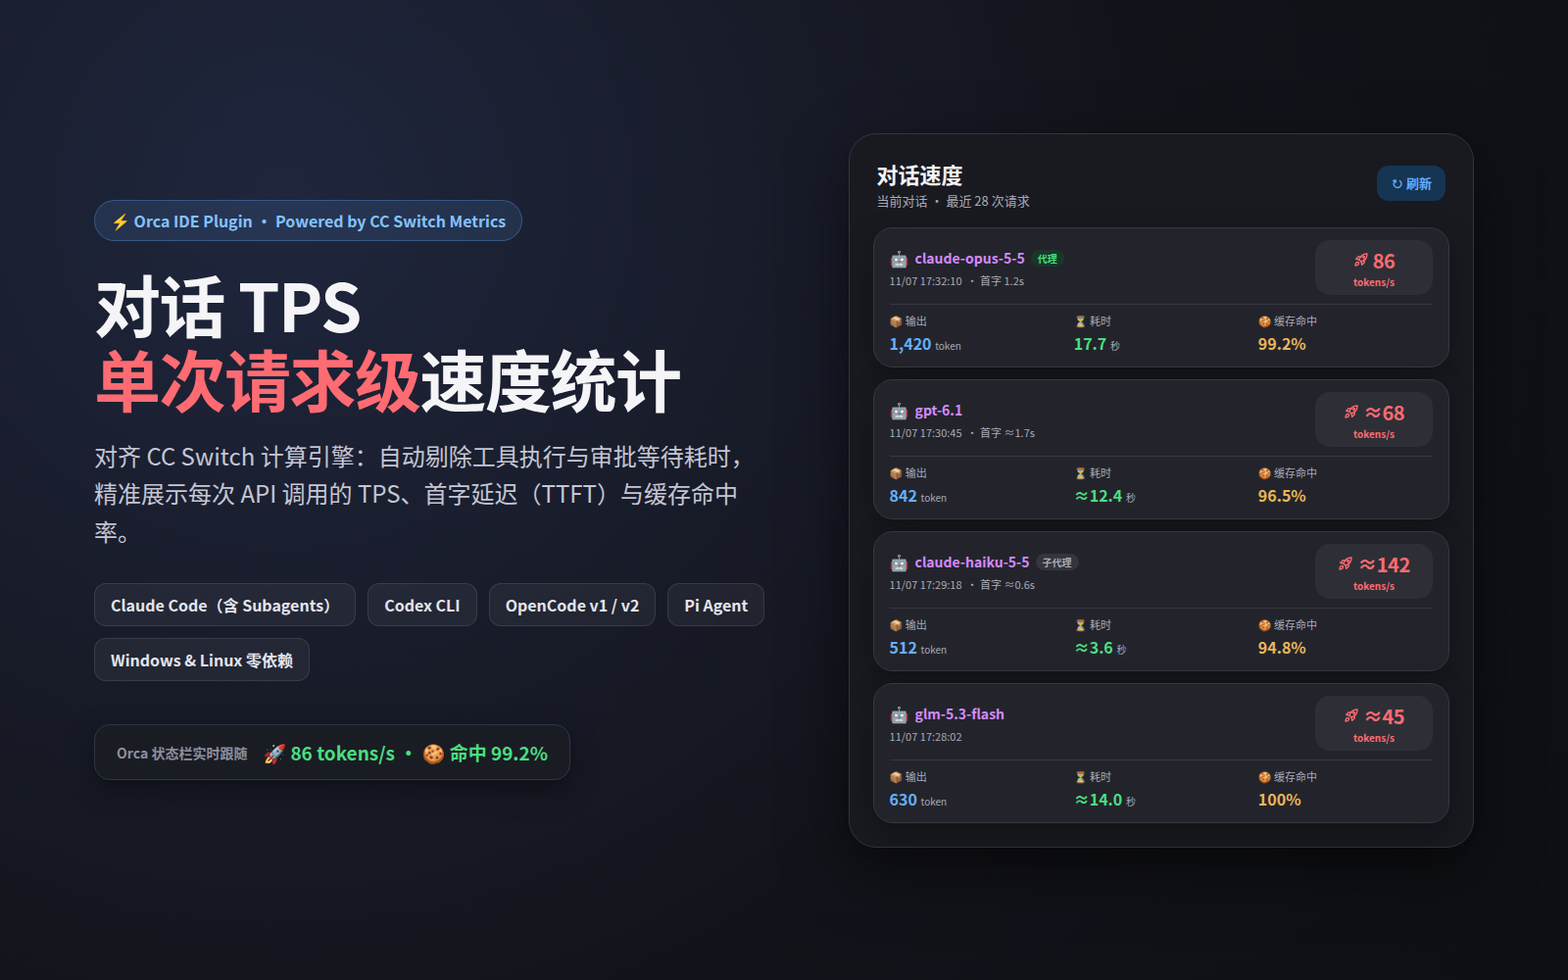
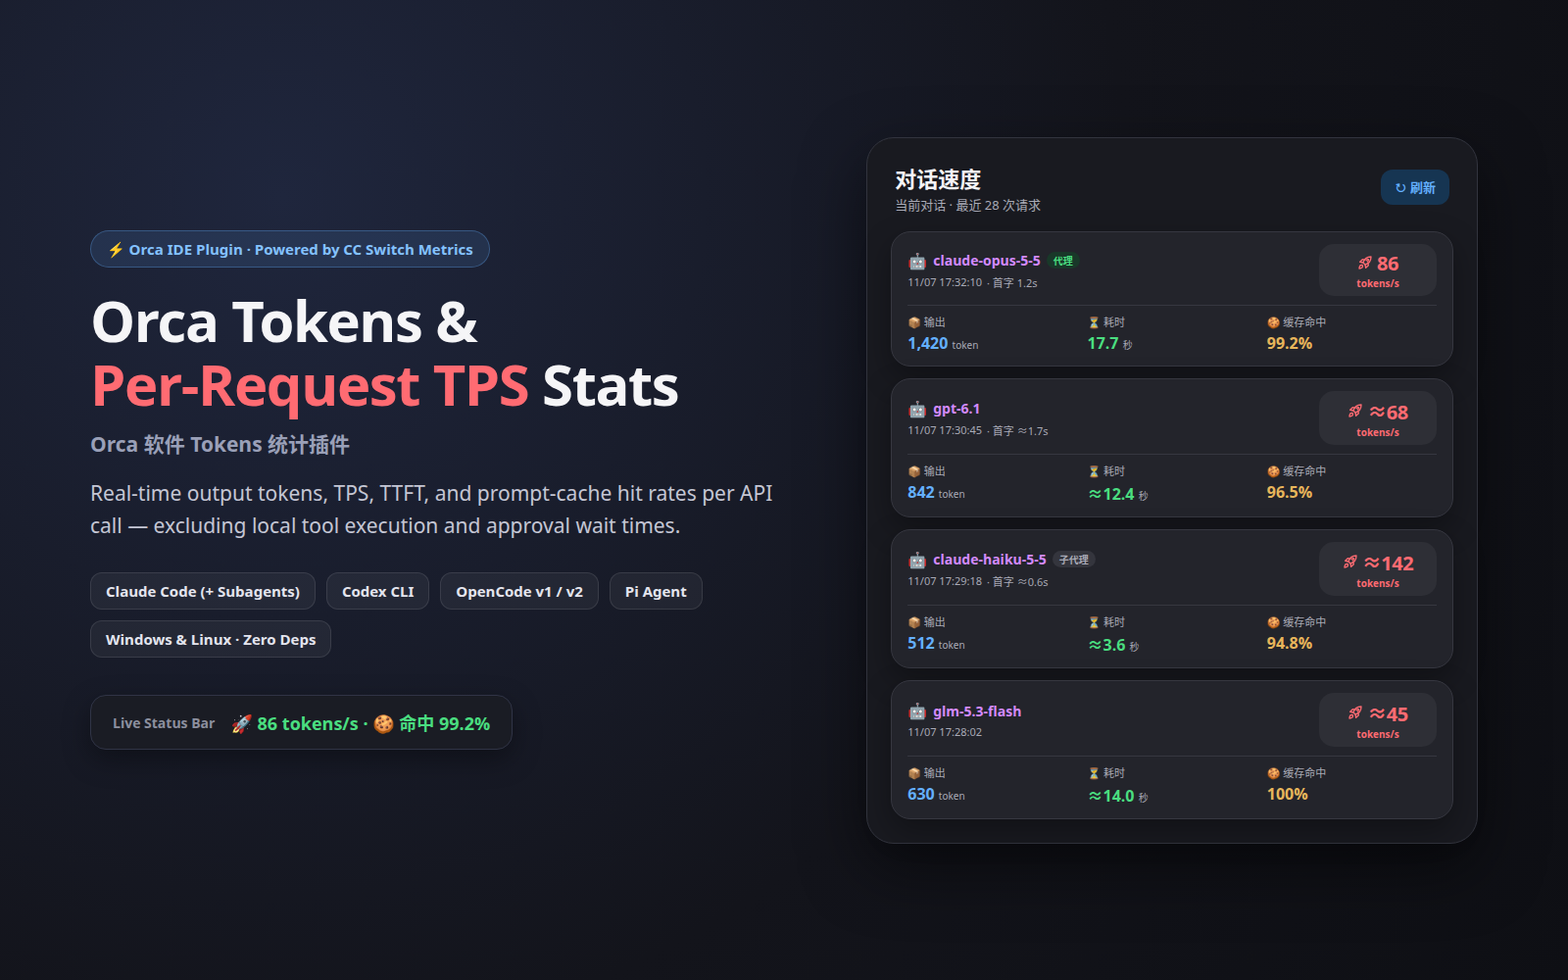
docs: switch primary docs & metadata to English with Chinese link

diff --git a/README.md b/README.md
@@ -1,70 +1,72 @@
-# 对话 TPS（Orca TPS Stats Plugin）
+# Orca Tokens & TPS Statistics Plugin
 
-[简体中文](./README.md) | [English](./README.en.md)
+**Orca 软件 Tokens 统计插件** · **English** | **[简体中文文档 (Chinese Documentation)](./README.zh-CN.md)**
 
 [![License: MIT](https://img.shields.io/badge/License-MIT-green.svg)](./LICENSE)
 [![Orca Engine](https://img.shields.io/badge/Orca-%3E%3D1.4.251-blue.svg)](https://github.com/stablyai/orca)
 [![Node.js](https://img.shields.io/badge/Node.js-%3E%3D22.13-339933.svg)](https://nodejs.org/)
 [![CI](https://github.com/jecyxyf/Orca-TPS-Plugin/actions/workflows/ci.yml/badge.svg)](https://github.com/jecyxyf/Orca-TPS-Plugin/actions/workflows/ci.yml)
 
-![对话 TPS 插件封面](./assets/cover.png)
+![Orca Tokens & Per-Request TPS Stats Cover](./assets/cover.png)
 
-适用于 **Orca IDE 1.4.251+** 的实时对话速度（TPS）、首字延迟（TTFT）与缓存命中率统计插件。采用与 [CC Switch](https://github.com/farion1231/cc-switch) 完全一致的**单次 API 请求级**计算引擎，自动剔除本地工具执行与权限等待耗时，零外部依赖，原生支持 **Linux** 与 **Windows**。
+Real-time **token usage**, **per-request output speed (TPS)**, **time-to-first-token (TTFT)**, and **prompt-cache hit rate** statistics plugin for **Orca IDE (`>= 1.4.251`)**. Powered by a zero-dependency calculation engine 100% aligned with [CC Switch](https://github.com/farion1231/cc-switch), automatically excluding local tool execution and permission wait times across **Linux** and **Windows**.
 
----
-
-## 核心特性
-
-- **底部状态栏实时跟随**：自动识别当前焦点工作区、页签与终端分屏，实时展示最新一次 API 请求的输出速度与缓存命中率（如 `🚀 ≈68 tokens/s · 🍪 命中 99.2%` 或代理精确模式 `🚀 86 tokens/s`），点击即可立即刷新。
-- **侧栏请求级明细卡片**：在右侧活动栏打开「对话 TPS」，查看当前对话最近 100 次 API 请求的**模型名称、完成时间、首字延迟（TTFT）、输出 Token、请求耗时、输出速度与缓存命中率**，并自动标记 `子代理` 与 `代理` 来源。
-- **严格剔除工具运行耗时**：不再用整轮挂钟时间充当分母，避免本地编译、测试脚本执行或权限确认弹窗拉低模型真实生成速度。
-- **完整支持四大 CLI 与子代理**：原生解析本机终端中的 **Claude Code**（含 `<SESSION_ID>/subagents` 与 `workflows` 子代理）、**Codex CLI**、**OpenCode（v1 / v2）** 与 **Pi Agent**，并支持只读融合 `~/.cc-switch/cc-switch.db` 本地路由代理的精确首字记录。
-- **隐私与只读安全设计**：零网络请求、不上传任何数据、不写入或修改任何会话文件与外部数据库；对话提示词（Prompt）与回复正文绝不离开解析器进入面板或日志。
+> 📖 **中文说明 / Chinese Guide**: 请查看 **[简体中文完整文档 (README.zh-CN.md)](./README.zh-CN.md)**。
 
 ---
 
-## 界面预览
+## Key Features
 
-| 深色主题（Dark） | 浅色主题（Light） |
+- **Live Status Bar Tracking**: Automatically follows the active Orca workspace, tab, and split terminal pane to display the latest API request's output speed and cache hit rate (e.g., `🚀 ≈68 tokens/s · 🍪 命中 99.2%` or exact proxy mode `🚀 86 tokens/s`). Click to refresh immediately.
+- **Per-Request Sidebar Cards**: Open the sidebar panel to inspect the latest 100 API requests in the active conversation — including **model ID, completion timestamp, TTFT, output tokens, request duration, TPS, and cache hit rate**, with automatic badges for subagents (`子代理`) and local routing proxy (`代理`).
+- **Tool Execution Time Excluded**: Measures individual API call durations instead of whole-turn wall-clock time, so local builds, test suites, shell commands, and approval dialogs never distort model generation speed.
+- **Multi-Agent & Subagent Support**: Natively parses local terminal sessions from **Claude Code** (including `<SESSION_ID>/subagents` and workflow subagents), **Codex CLI**, **OpenCode (v1 & v2)**, and **Pi Agent**, with optional read-only deduplication and exact-TTFT upgrades from `~/.cc-switch/cc-switch.db`.
+- **Strict Read-Only & Privacy-First**: Zero network requests, zero writes to agent transcripts or external databases, and zero prompt/response content exposure outside the local parser.
+
+---
+
+## Screenshots
+
+| Dark Theme | Light Theme |
 | :---: | :---: |
 | ![Dark Screenshot](./assets/screenshot-dark.png) | ![Light Screenshot](./assets/screenshot-light.png) |
 
 ---
 
-## 计算方式与规则（对齐 CC Switch）
+## Calculation Methodology (CC Switch Parity)
 
-### 1. 各提供方请求耗时与首字提取
+### 1. Per-Provider Request Timing & Token Extraction
 
-| 提供方 | 单次请求起点 | 单次请求终点（剔除工具耗时） | 首字时间（TTFT）与 Token 规则 |
+| Provider | Request Start | Request End (Excludes Tool Runtime) | TTFT & Token Rules |
 | :--- | :--- | :--- | :--- |
-| **Claude Code** | 按 `message.id` 聚合多内容块，沿首块 `parentUuid` 跳过 `attachment` 向上回溯（最多 32 跳）至触发消息时间戳 | 同一 `message.id` 具有 `stop_reason` 时的最大块时间戳 | 首块为 `thinking` 且含 `thinkingDurationMs` 时推算估算首字；自动合并 `isSidechain`、`subagents/*.jsonl` 与 `subagents/workflows/*/*.jsonl` |
-| **Codex CLI** | `RequestTimer` 状态机锁定首条模型输出前的最近边界（`turn_context`、用户消息、工具 `*_output`、前序 `token_count`） | 优先取匹配的 `token_usage_record` 时间戳或工具输出前的模型输出终点，否则取 `token_count` | 从 `item_completed`（`Reasoning` / `AgentMessage`）的 `started_at_ms` 提取估算首字；支持 `limit_id` 快照去重与模型名归一化 |
-| **OpenCode v1 / v2** | 消息记录 `time.created`（缺省回退 `time_created`） | **优先取 `time.streamed`**（流式生成结束时刻，不含后续工具执行），缺省回退 `time.completed` | 输出量计为 `tokens.output + tokens.reasoning`；同时支持 v2 `compaction` 消息 |
-| **Pi Agent** | 优先读取显式 `duration`，否则取 `message.timestamp` | `entry.timestamp` | 支持展开官方 `subagent` 工具调用结果的用量明细（不继承父工具完成耗时） |
+| **Claude Code** | Groups multi-block streaming entries by `message.id` and walks `parentUuid` (up to 32 hops, skipping `attachment` nodes) to the triggering message timestamp | Maximum block timestamp once `stop_reason` is present | Infers TTFT from `thinkingDurationMs` when block `0` is `thinking`; merges `isSidechain`, `subagents/*.jsonl`, and `subagents/workflows/*/*.jsonl` |
+| **Codex CLI** | `RequestTimer` locks onto the latest boundary (`turn_context`, user message, `*_output` tool result, or prior `token_count`) before first model output | Prefers matching `token_usage_record` timestamp or last model output before tool execution; falls back to `token_count` | Extracts TTFT from `item_completed` (`Reasoning` / `AgentMessage`) `started_at_ms`; deduplicates `limit_id` snapshots and normalizes model IDs |
+| **OpenCode v1 / v2** | Message `time.created` (falls back to `time_created`) | **Prefers `time.streamed`** (end of streaming before tool execution); falls back to `time.completed` | Counts `tokens.output + tokens.reasoning` together; supports v2 `compaction` rows |
+| **Pi Agent** | Explicit `duration` when present, else `message.timestamp` | `entry.timestamp` | Unpacks official `subagent` `toolResult` usage records without inheriting parent tool completion latency |
 
-### 2. 精确速度 vs 日志估算速度门槛
+### 2. Exact Proxy Speed vs. Session-Log Estimated Speed
 
-| 模式 | 数据来源 | 防噪门槛 | 计算公式 | 显示格式 |
+| Mode | Source | Anti-Noise Threshold | Formula | Display Format |
 | :--- | :--- | :--- | :--- | :--- |
-| **本地代理精确速度** | `~/.cc-switch/cc-switch.db` 中匹配的 `2xx` `proxy` 记录（精确 ID 或 `±600s` 同模型同 Token 语义匹配） | `output_tokens >= 100` 且纯生成时间 `latency_ms - first_token_ms >= 100ms` | $\dfrac{\text{output\_tokens}}{(\text{latency\_ms} - \text{first\_token\_ms}) \div 1000}$ | 无前缀（如 `86`），卡片带 `代理` 标签 |
-| **会话日志估算速度** | 各 CLI 本机 JSONL / SQLite 会话记录 | `output_tokens >= 200` 且合理耗时 `1000ms <= latency_ms <= 1h` | $\dfrac{\text{output\_tokens}}{\text{latency\_ms} \div 1000}$ | 带 `≈` 前缀（如 `≈68`）；未达门槛显示 `—`（悬停提示原因） |
+| **Exact Proxy Speed** | Matching `2xx` `proxy` row in `~/.cc-switch/cc-switch.db` (exact `request_id` or `±600s` model + token semantic match) | `output_tokens >= 100` and post-TTFT window `latency_ms - first_token_ms >= 100ms` | $\dfrac{\text{output\_tokens}}{(\text{latency\_ms} - \text{first\_token\_ms}) \div 1000}$ | Exact value (e.g. `86`) with `代理` badge |
+| **Estimated Log Speed** | Local CLI JSONL / SQLite session transcripts | `output_tokens >= 200` and plausible duration `1000ms <= latency_ms <= 1h` | $\dfrac{\text{output\_tokens}}{\text{latency\_ms} \div 1000}$ | Prefixed with `≈` (e.g. `≈68`); ineligible calls show `—` with reason tooltip |
 
-- **数值舍入**：`TPS >= 1` 四舍五入为整数，`0 < TPS < 1` 保留 1 位小数。
-- **缓存命中率**：统一归一化净新输入后按 $\text{cache\_read} \div (\text{fresh\_input} + \text{cache\_creation} + \text{cache\_read})$ 计算；`>= 99.95%` 显示 `100%`，其余保留 1 位小数。
+- **Rounding**: `TPS >= 1` rounds to the nearest integer; `0 < TPS < 1` retains 1 decimal place.
+- **Cache Hit Rate**: Normalizes fresh input tokens across providers as $\text{cache\_read} \div (\text{fresh\_input} + \text{cache\_creation} + \text{cache\_read})$; values `>= 99.95%` render as `100%`.
 
 ---
 
-## 安装指南
+## Installation
 
-### 方式一：通过 Orca 插件目录 / Git 仓库安装
+### Option 1: Install via Orca Git / Catalog Source
 
-本仓库已包含标准 `orca-plugin.json`（Manifest v2）与 `orca-catalog.json`，可在支持 Git / Catalog 源的 Orca（`>= 1.4.251`）中直接引用仓库地址安装：
+This repository ships with both `orca-plugin.json` (Manifest v2) and `orca-catalog.json` (Catalog v2) for Orca `>= 1.4.251`:
 
 ```text
 https://github.com/jecyxyf/Orca-TPS-Plugin.git
 ```
 
-### 方式二：Linux 本地克隆加载
+### Option 2: Local Clone on Linux
 
 ```sh
 git clone https://github.com/jecyxyf/Orca-TPS-Plugin.git ~/Applications/orca-tps-plugin
@@ -72,13 +74,13 @@ cd ~/Applications/orca-tps-plugin
 sh install-linux.sh
 ```
 
-若 `orca` 不在默认 `PATH` 中，可显式指定路径：
+If `orca` is not on your default `PATH`, specify `ORCA_CLI`:
 
 ```sh
 ORCA_CLI="$HOME/.config/orca/linux-orca-cli-shim/orca" sh install-linux.sh
 ```
 
-### 方式三：Windows 本地克隆加载（PowerShell）
+### Option 3: Local Clone on Windows (PowerShell)
 
 ```powershell
 git clone https://github.com/jecyxyf/Orca-TPS-Plugin.git "$env:USERPROFILE\Applications\orca-tps-plugin"
@@ -86,62 +88,64 @@ Set-Location "$env:USERPROFILE\Applications\orca-tps-plugin"
 ./install-windows.ps1
 ```
 
-> **提示**：本地开发目录加载后请保留克隆目录；关闭终端不会卸载插件。如需移除本地开发挂载，可执行 `orca plugin dev unload <目录路径>`。
+> **Note**: Keep the cloned directory in place while loaded in local development mode. To unload it later, run `orca plugin dev unload <directory>`.
 
 ---
 
-## 默认数据扫描位置
+## Default Data Locations
 
-插件优先读取 Orca 当前活动终端保存的精确会话路径；缺少显式路径时才在默认目录按会话 ID 匹配（绝不回退显示其他会话数据）：
+The plugin reads the exact transcript/database path recorded by Orca for the focused terminal pane first, and only falls back to matching the exact session ID under default locations (never displaying another session's data):
 
-| 数据源 | 默认位置 |
+| Source | Default Paths |
 | :--- | :--- |
-| **Codex** | `~/.codex/sessions`、Orca 托管 `codex-runtime-home/home/sessions` 及多账户目录 |
-| **Claude** | `~/.claude/projects`（含 `<SESSION_ID>/subagents`）、Orca 托管 Claude 账户目录 |
-| **OpenCode / OpenCode 2** | `~/.local/share/opencode/opencode.db`（支持 `OPENCODE_DB`、`XDG_DATA_HOME`） |
-| **Pi** | `~/.pi/agent/sessions`（支持 `PI_CODING_AGENT_DIR`） |
-| **CC Switch 代理库（可选）** | `~/.cc-switch/cc-switch.db`（支持 `CC_SWITCH_DB_PATH`） |
+| **Codex** | `~/.codex/sessions`, Orca `codex-runtime-home/home/sessions`, managed Codex accounts |
+| **Claude** | `~/.claude/projects` (including `<SESSION_ID>/subagents`), managed Claude profiles |
+| **OpenCode / OpenCode 2** | `~/.local/share/opencode/opencode.db` (respects `OPENCODE_DB`, `XDG_DATA_HOME`) |
+| **Pi** | `~/.pi/agent/sessions` (respects `PI_CODING_AGENT_DIR`) |
+| **CC Switch Proxy DB (Optional)** | `~/.cc-switch/cc-switch.db` (respects `CC_SWITCH_DB_PATH`) |
 
 ---
 
-## 目录结构
+## Repository Structure
 
 ```text
 Orca-TPS-Plugin/
-├── assets/                   # 插件图标、16:10 封面与明暗主题预览图
+├── assets/                   # Plugin icon, 16:10 cover banner, and dark/light screenshots
 ├── src/
-│   ├── worker.mjs            # Orca trusted-worker 激活入口
-│   ├── active-conversation.mjs # 只读解析 Orca 当前活动工作区/页签/分屏会话
-│   ├── controller.mjs        # 状态同步、并发代际隔离与底部状态栏更新队列
-│   ├── data.mjs              # JSONL 尾部读取、SQLite 只读查询、子代理与代理库合并
-│   ├── data-paths.mjs        # Linux / Windows / macOS 跨平台数据目录解析
-│   ├── parsers.mjs           # CC Switch 同款单次请求解析与速度/缓存计算核心
-│   └── panel.html            # 侧栏响应式 HTML 面板（自动适配明暗主题）
-├── tests/                    # 51 项单元与 SQLite 集成测试
-├── .github/workflows/ci.yml  # Ubuntu + Windows 双平台自动化测试流水线
-├── install-linux.sh          # Linux 一键校验与加载脚本
-├── install-windows.ps1       # Windows PowerShell 一键校验与加载脚本
-├── orca-plugin.json          # Orca 插件清单（Manifest v2）
-├── orca-catalog.json         # Orca 插件发布目录索引（Catalog v2）
-├── CHANGELOG.md              # 版本变更记录
-├── THIRD_PARTY_NOTICES.md    # 第三方开源致谢与规范说明
-└── LICENSE                   # MIT 开源许可证
+│   ├── worker.mjs            # Orca trusted-worker activation entry
+│   ├── active-conversation.mjs # Read-only Orca active workspace/tab/pane resolver
+│   ├── controller.mjs        # State sync, generation fencing, and status bar queue
+│   ├── data.mjs              # Bounded JSONL reader, read-only SQLite, subagent & proxy merger
+│   ├── data-paths.mjs        # Cross-platform Linux / Windows / macOS path resolution
+│   ├── parsers.mjs           # CC Switch-aligned per-request parser & speed/cache formulas
+│   └── panel.html            # Responsive sidebar HTML panel with light/dark theming
+├── tests/                    # 51 unit and SQLite integration tests
+├── .github/workflows/ci.yml  # Automated CI matrix for Ubuntu and Windows
+├── install-linux.sh          # Linux validation & loader script
+├── install-windows.ps1       # Windows PowerShell validation & loader script
+├── orca-plugin.json          # Orca Plugin Manifest v2
+├── orca-catalog.json         # Orca Plugin Catalog v2
+├── README.zh-CN.md           # Simplified Chinese documentation (简体中文文档)
+├── CHANGELOG.md              # Release history
+├── THIRD_PARTY_NOTICES.md    # Open-source attributions
+└── LICENSE                   # MIT License
 ```
 
 ---
 
-## 开发与测试
+## Development & Testing
 
 ```sh
-# 运行全部单元与 SQLite 集成测试（需 Node.js >= 22.13）
+# Run all 51 unit & SQLite integration tests (requires Node.js >= 22.13)
 npm test
 
-# 使用 Orca CLI 校验插件清单与权限说明
+# Validate manifest, catalog, and tests via Orca CLI
 orca plugin validate .
+orca plugin validate orca-catalog.json
 orca plugin inspect .
 orca plugin test .
 ```
 
-## 开源许可
+## License
 
-本项目基于 [MIT License](./LICENSE) 开源。算法设计与宿主接口规范致谢见 [THIRD_PARTY_NOTICES.md](./THIRD_PARTY_NOTICES.md)。
+Released under the [MIT License](./LICENSE). See [THIRD_PARTY_NOTICES.md](./THIRD_PARTY_NOTICES.md) for third-party attributions.

diff --git a/README.zh-CN.md b/README.zh-CN.md
@@ -1,0 +1,116 @@
+# Orca 软件 Tokens 统计插件
+
+**[English Documentation (README.md)](./README.md)** | **简体中文**
+
+[![License: MIT](https://img.shields.io/badge/License-MIT-green.svg)](./LICENSE)
+[![Orca Engine](https://img.shields.io/badge/Orca-%3E%3D1.4.251-blue.svg)](https://github.com/stablyai/orca)
+[![Node.js](https://img.shields.io/badge/Node.js-%3E%3D22.13-339933.svg)](https://nodejs.org/)
+[![CI](https://github.com/jecyxyf/Orca-TPS-Plugin/actions/workflows/ci.yml/badge.svg)](https://github.com/jecyxyf/Orca-TPS-Plugin/actions/workflows/ci.yml)
+
+![Orca 软件 Tokens 统计插件封面](./assets/cover.png)
+
+适用于 **Orca IDE 1.4.251+** 的实时 Tokens 用量、单次请求输出速度（TPS）、首字延迟（TTFT）与缓存命中率统计插件。采用与 [CC Switch](https://github.com/farion1231/cc-switch) 完全一致的**单次 API 请求级**计算引擎，自动剔除本地工具执行与权限等待耗时，零外部依赖，原生支持 **Linux** 与 **Windows**。
+
+---
+
+## 核心特性
+
+- **底部状态栏实时跟随**：自动识别当前焦点工作区、页签与终端分屏，实时展示最新一次 API 请求的输出速度与缓存命中率（如 `🚀 ≈68 tokens/s · 🍪 命中 99.2%` 或代理精确模式 `🚀 86 tokens/s`），点击即可立即刷新。
+- **侧栏请求级明细卡片**：在右侧活动栏打开「对话 TPS」，查看当前对话最近 100 次 API 请求的**模型名称、完成时间、首字延迟（TTFT）、输出 Token、请求耗时、输出速度与缓存命中率**，并自动标记 `子代理` 与 `代理` 来源。
+- **严格剔除工具运行耗时**：不再用整轮挂钟时间充当分母，避免本地编译、测试脚本执行或权限确认弹窗拉低模型真实生成速度。
+- **完整支持四大 CLI 与子代理**：原生解析本机终端中的 **Claude Code**（含 `<SESSION_ID>/subagents` 与 `workflows` 子代理）、**Codex CLI**、**OpenCode（v1 / v2）** 与 **Pi Agent**，并支持只读融合 `~/.cc-switch/cc-switch.db` 本地路由代理的精确首字记录。
+- **隐私与只读安全设计**：零网络请求、不上传任何数据、不写入或修改任何会话文件与外部数据库；对话提示词（Prompt）与回复正文绝不离开解析器进入面板或日志。
+
+---
+
+## 界面预览
+
+| 深色主题（Dark） | 浅色主题（Light） |
+| :---: | :---: |
+| ![Dark Screenshot](./assets/screenshot-dark.png) | ![Light Screenshot](./assets/screenshot-light.png) |
+
+---
+
+## 计算方式与规则（对齐 CC Switch）
+
+### 1. 各提供方请求耗时与首字提取
+
+| 提供方 | 单次请求起点 | 单次请求终点（剔除工具耗时） | 首字时间（TTFT）与 Token 规则 |
+| :--- | :--- | :--- | :--- |
+| **Claude Code** | 按 `message.id` 聚合多内容块，沿首块 `parentUuid` 跳过 `attachment` 向上回溯（最多 32 跳）至触发消息时间戳 | 同一 `message.id` 具有 `stop_reason` 时的最大块时间戳 | 首块为 `thinking` 且含 `thinkingDurationMs` 时推算估算首字；自动合并 `isSidechain`、`subagents/*.jsonl` 与 `subagents/workflows/*/*.jsonl` |
+| **Codex CLI** | `RequestTimer` 状态机锁定首条模型输出前的最近边界（`turn_context`、用户消息、工具 `*_output`、前序 `token_count`） | 优先取匹配的 `token_usage_record` 时间戳或工具输出前的模型输出终点，否则取 `token_count` | 从 `item_completed`（`Reasoning` / `AgentMessage`）的 `started_at_ms` 提取估算首字；支持 `limit_id` 快照去重与模型名归一化 |
+| **OpenCode v1 / v2** | 消息记录 `time.created`（缺省回退 `time_created`） | **优先取 `time.streamed`**（流式生成结束时刻，不含后续工具执行），缺省回退 `time.completed` | 输出量计为 `tokens.output + tokens.reasoning`；同时支持 v2 `compaction` 消息 |
+| **Pi Agent** | 优先读取显式 `duration`，否则取 `message.timestamp` | `entry.timestamp` | 支持展开官方 `subagent` 工具调用结果的用量明细（不继承父工具完成耗时） |
+
+### 2. 精确速度 vs 日志估算速度门槛
+
+| 模式 | 数据来源 | 防噪门槛 | 计算公式 | 显示格式 |
+| :--- | :--- | :--- | :--- | :--- |
+| **本地代理精确速度** | `~/.cc-switch/cc-switch.db` 中匹配的 `2xx` `proxy` 记录（精确 ID 或 `±600s` 同模型同 Token 语义匹配） | `output_tokens >= 100` 且纯生成时间 `latency_ms - first_token_ms >= 100ms` | $\dfrac{\text{output\_tokens}}{(\text{latency\_ms} - \text{first\_token\_ms}) \div 1000}$ | 无前缀（如 `86`），卡片带 `代理` 标签 |
+| **会话日志估算速度** | 各 CLI 本机 JSONL / SQLite 会话记录 | `output_tokens >= 200` 且合理耗时 `1000ms <= latency_ms <= 1h` | $\dfrac{\text{output\_tokens}}{\text{latency\_ms} \div 1000}$ | 带 `≈` 前缀（如 `≈68`）；未达门槛显示 `—`（悬停提示原因） |
+
+- **数值舍入**：`TPS >= 1` 四舍五入为整数，`0 < TPS < 1` 保留 1 位小数。
+- **缓存命中率**：统一归一化净新输入后按 $\text{cache\_read} \div (\text{fresh\_input} + \text{cache\_creation} + \text{cache\_read})$ 计算；`>= 99.95%` 显示 `100%`，其余保留 1 位小数。
+
+---
+
+## 安装指南
+
+### 方式一：通过 Orca 插件目录 / Git 仓库安装
+
+可在支持 Git / Catalog 源的 Orca（`>= 1.4.251`）中直接引用仓库地址安装：
+
+```text
+https://github.com/jecyxyf/Orca-TPS-Plugin.git
+```
+
+### 方式二：Linux 本地克隆加载
+
+```sh
+git clone https://github.com/jecyxyf/Orca-TPS-Plugin.git ~/Applications/orca-tps-plugin
+cd ~/Applications/orca-tps-plugin
+sh install-linux.sh
+```
+
+若 `orca` 不在默认 `PATH` 中，可显式指定路径：
+
+```sh
+ORCA_CLI="$HOME/.config/orca/linux-orca-cli-shim/orca" sh install-linux.sh
+```
+
+### 方式三：Windows 本地克隆加载（PowerShell）
+
+```powershell
+git clone https://github.com/jecyxyf/Orca-TPS-Plugin.git "$env:USERPROFILE\Applications\orca-tps-plugin"
+Set-Location "$env:USERPROFILE\Applications\orca-tps-plugin"
+./install-windows.ps1
+```
+
+> **提示**：本地开发目录加载后请保留克隆目录；关闭终端不会卸载插件。如需移除本地开发挂载，可执行 `orca plugin dev unload <目录路径>`。
+
+---
+
+## 默认数据扫描位置
+
+| 数据源 | 默认位置 |
+| :--- | :--- |
+| **Codex** | `~/.codex/sessions`、Orca 托管 `codex-runtime-home/home/sessions` 及多账户目录 |
+| **Claude** | `~/.claude/projects`（含 `<SESSION_ID>/subagents`）、Orca 托管 Claude 账户目录 |
+| **OpenCode / OpenCode 2** | `~/.local/share/opencode/opencode.db`（支持 `OPENCODE_DB`、`XDG_DATA_HOME`） |
+| **Pi** | `~/.pi/agent/sessions`（支持 `PI_CODING_AGENT_DIR`） |
+| **CC Switch 代理库（可选）** | `~/.cc-switch/cc-switch.db`（支持 `CC_SWITCH_DB_PATH`） |
+
+---
+
+## 开发与测试
+
+```sh
+npm test
+orca plugin validate .
+orca plugin inspect .
+orca plugin test .
+```
+
+## 开源许可
+
+本项目基于 [MIT License](./LICENSE) 开源。详见 [THIRD_PARTY_NOTICES.md](./THIRD_PARTY_NOTICES.md)。
